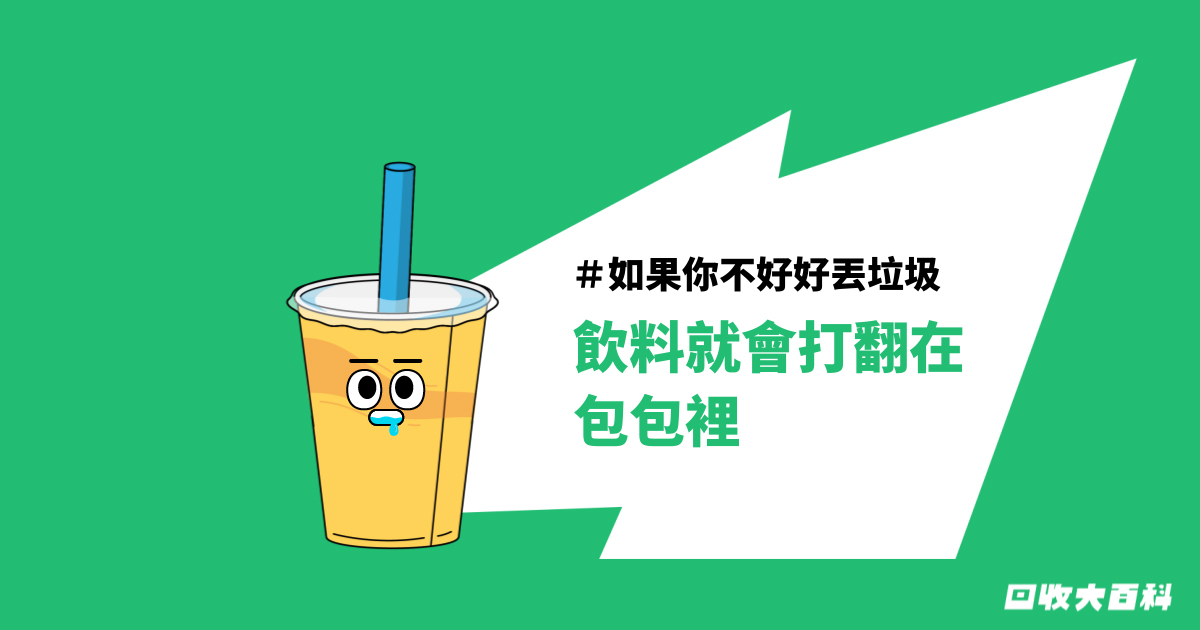
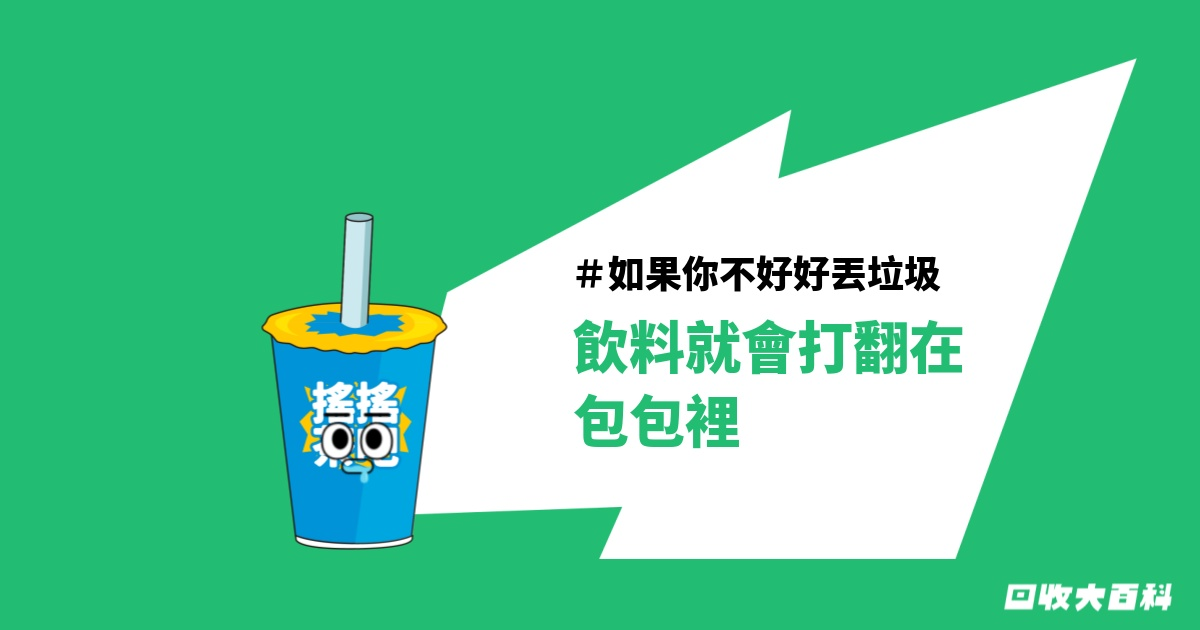
feat: 更新既有品項分享圖

diff --git a/makeSharePage.js b/makeSharePage.js
@@ -236,7 +236,7 @@ Promise.all(
   }));
 
   return Promise.all(
-    transformed.slice(114).map((d) =>
+    transformed.slice(7, 8).map((d) =>
       createOg(d).catch((e) => {
         console.log(d["最終序號"], d.name);
         console.error(e);
